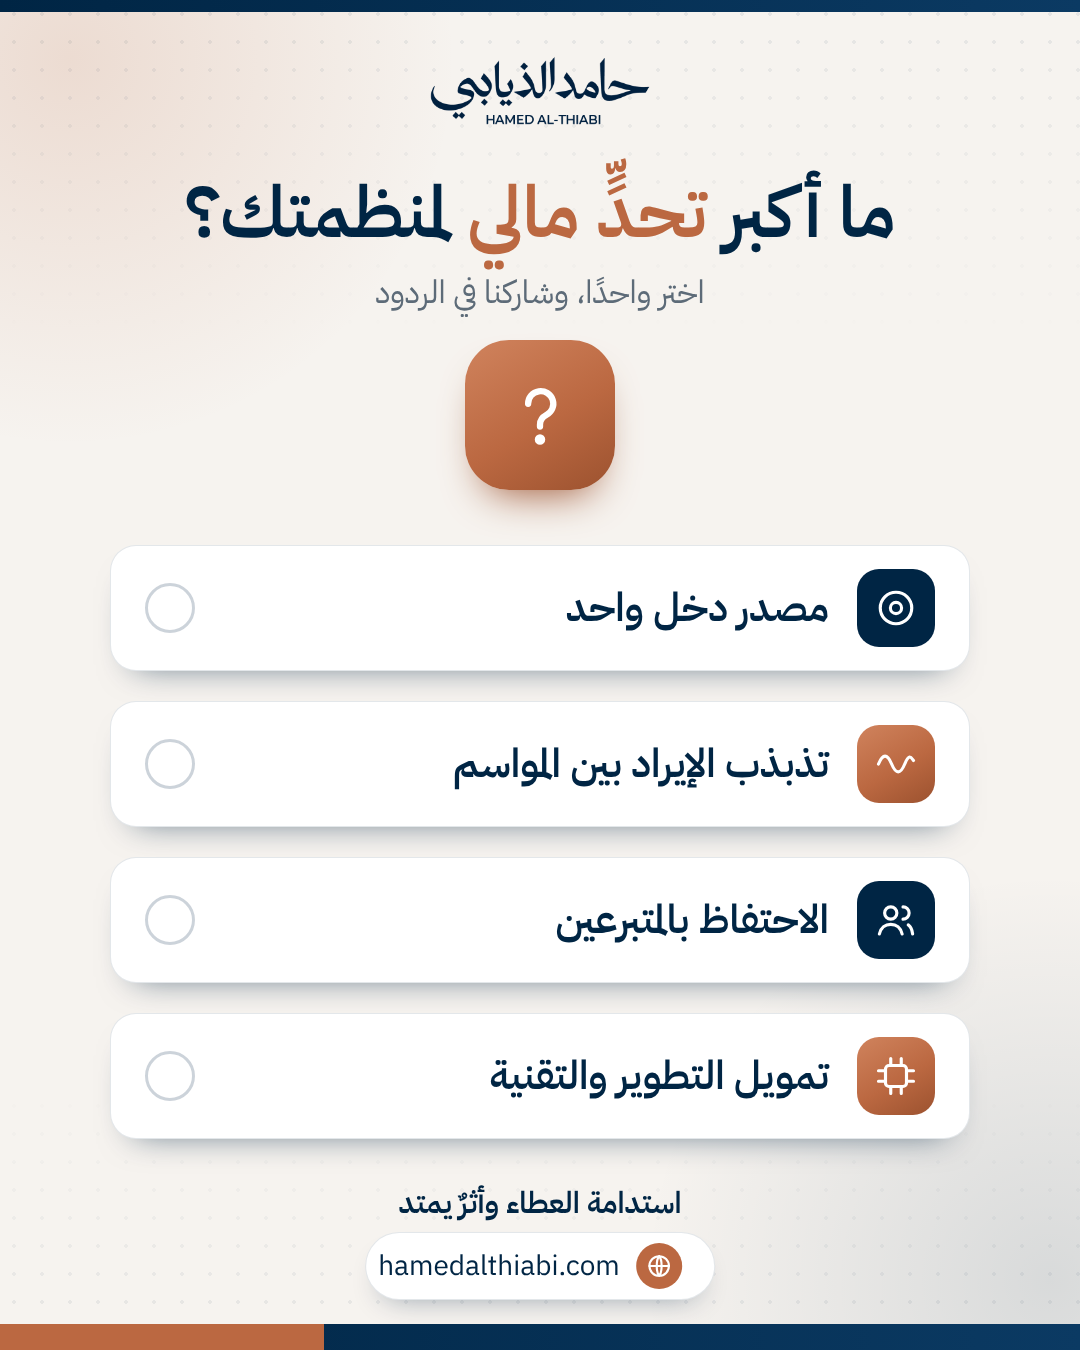
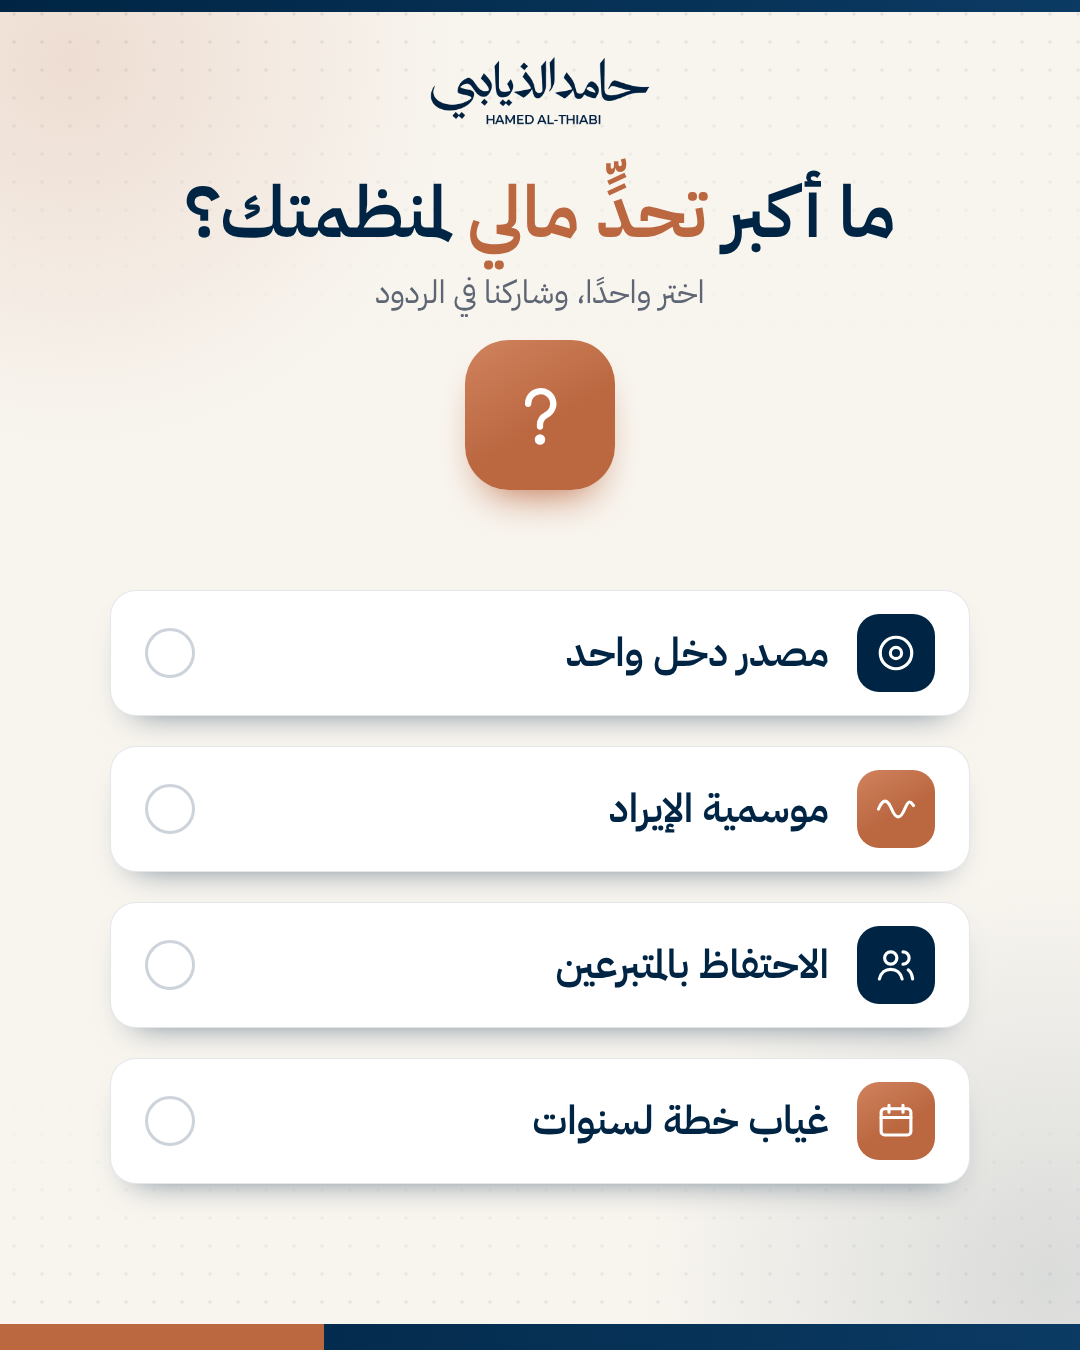
إكس 2026-11-18: نص وتصميم جديدان بطلب تغريد (مسودة)
Claude-Session: https://claude.ai/code/session_01WaAQ5THMPmT87a4kZUky1t

Changed region(s): [[0.0917, 0.4044, 0.9167, 0.9956]]

diff --git a/agent/designs/2026-11-18-challenge-poll.html b/agent/designs/2026-11-18-challenge-poll.html
@@ -2,7 +2,7 @@
 @font-face{font-family:Ar;src:url(../brand/plex-600.ttf);font-weight:600}
 @font-face{font-family:Ar;src:url(../brand/plex-400.ttf);font-weight:400}
 @font-face{font-family:La;src:url(../brand/plex-latin-400.ttf)}
-:root{--n:#002544;--n2:#0b3a63;--c:#BB6841;--c2:#d0835d;--ink:#1c2a38;--mut:#5d6b78;--bg:#f6f3ef}
+:root{--n:#002544;--n2:#0b3a63;--c:#BB6841;--c2:#d0835d;--ink:#1B2433;--mut:#5E6673;--bg:#F8F5EF}
 *{margin:0;box-sizing:border-box}html,body{width:1080px;height:1350px;overflow:hidden}
 body{font-family:Ar,La;background:var(--bg);position:relative;color:var(--ink)}
 .b1{position:absolute;width:780px;height:780px;left:-320px;top:-330px;border-radius:50%;background:radial-gradient(circle,#BB68412b,#BB684100 70%)}
@@ -17,12 +17,12 @@ body{font-family:Ar,La;background:var(--bg);position:relative;color:var(--ink)}
 
 .t1{top:170px;font-size:72px}
 .sub{position:absolute;top:268px;width:100%;text-align:center;font-size:32px;color:var(--mut)}
-.qm{position:absolute;top:340px;left:50%;transform:translateX(-50%);width:150px;height:150px;border-radius:44px;background:linear-gradient(150deg,#d0835d,#BB6841 55%,#9c522f);display:flex;align-items:center;justify-content:center;box-shadow:0 22px 40px -20px #9c522f}
+.qm{position:absolute;top:340px;left:50%;transform:translateX(-50%);width:150px;height:150px;border-radius:44px;background:linear-gradient(150deg,#d0835d,#BB6841 55%,#BB6841);display:flex;align-items:center;justify-content:center;box-shadow:0 22px 40px -20px #BB6841}
 .qm svg{width:84px;height:84px}
-.opts{position:absolute;top:545px;left:110px;right:110px;display:flex;flex-direction:column;gap:30px}
+.opts{position:absolute;top:590px;left:110px;right:110px;display:flex;flex-direction:column;gap:30px}
 .op{height:126px;background:#fff;border-radius:26px;border:1.5px solid #0025441c;box-shadow:0 18px 34px -24px #002544aa;display:flex;align-items:center;padding:0 34px;gap:28px;position:relative;overflow:hidden}
 .ic{flex:none;width:78px;height:78px;border-radius:22px;background:var(--n);display:flex;align-items:center;justify-content:center}
-.op:nth-child(2) .ic,.op:nth-child(4) .ic{background:linear-gradient(150deg,#d0835d,#BB6841 55%,#9c522f)}
+.op:nth-child(2) .ic,.op:nth-child(4) .ic{background:linear-gradient(150deg,#d0835d,#BB6841 55%,#BB6841)}
 .ic svg{width:42px;height:42px}
 .lbl{flex:1;font-size:40px;font-weight:600;color:var(--n);white-space:nowrap}
 .rad{flex:none;width:50px;height:50px;border-radius:50%;border:3px solid #00254433}
@@ -38,8 +38,6 @@ body{font-family:Ar,La;background:var(--bg);position:relative;color:var(--ink)}
 <div class="t1">ما أكبر <em>تحدٍّ مالي</em> لمنظمتك؟</div>
 <div class="sub">اختر واحدًا، وشاركنا في الردود</div>
 <div class="qm"><svg viewBox="0 0 24 24" fill="none" stroke="#fff" stroke-width="1.8" stroke-linecap="round" stroke-linejoin="round" stroke-width="2.2"><path d="M8.6 8.8a3.6 3.6 0 1 1 5.2 3.2c-1.1.6-1.8 1.4-1.8 2.7v.6"/><circle cx="12" cy="19" r=".6" fill="#fff"/></svg></div>
-<div class="opts"><div class="op"><div class="ic"><svg viewBox="0 0 24 24" fill="none" stroke="#fff" stroke-width="1.8" stroke-linecap="round" stroke-linejoin="round"><circle cx="12" cy="12" r="9"/><circle cx="12" cy="12" r="3.2"/></svg></div><div class="lbl">مصدر دخل واحد</div><div class="rad"></div></div><div class="op"><div class="ic"><svg viewBox="0 0 24 24" fill="none" stroke="#fff" stroke-width="1.8" stroke-linecap="round" stroke-linejoin="round"><path d="M2 12c2.5-6 5-6 7.5 0s5 6 7.5 0 3.5-4 5-2"/></svg></div><div class="lbl">تذبذب الإيراد بين المواسم</div><div class="rad"></div></div><div class="op"><div class="ic"><svg viewBox="0 0 24 24" fill="none" stroke="#fff" stroke-width="1.8" stroke-linecap="round" stroke-linejoin="round"><circle cx="9" cy="8" r="3.5"/><path d="M2.5 20c.8-3.6 3.4-5.5 6.5-5.5s5.7 1.9 6.5 5.5"/><path d="M16 4.5a3.5 3.5 0 0 1 0 7M19 14.8c1.4.9 2.2 2.6 2.5 5.2"/></svg></div><div class="lbl">الاحتفاظ بالمتبرعين</div><div class="rad"></div></div><div class="op"><div class="ic"><svg viewBox="0 0 24 24" fill="none" stroke="#fff" stroke-width="1.8" stroke-linecap="round" stroke-linejoin="round"><rect x="6" y="6" width="12" height="12" rx="2"/><path d="M9 2v4M15 2v4M9 18v4M15 18v4M2 9h4M2 15h4M18 9h4M18 15h4"/></svg></div><div class="lbl">تمويل التطوير والتقنية</div><div class="rad"></div></div></div>
-<div class="slog">استدامة العطاء وأثرٌ يمتد</div>
-<div class="pill"><div class="dot"><svg viewBox="0 0 24 24" fill="none" stroke="#fff" stroke-width="2" stroke-linecap="round"><circle cx="12" cy="12" r="9"/><path d="M3 12h18M12 3c3 3.2 3 14.8 0 18M12 3c-3 3.2-3 14.8 0 18"/></svg></div><span>hamedalthiabi.com</span></div>
+<div class="opts"><div class="op"><div class="ic"><svg viewBox="0 0 24 24" fill="none" stroke="#fff" stroke-width="1.8" stroke-linecap="round" stroke-linejoin="round"><circle cx="12" cy="12" r="9"/><circle cx="12" cy="12" r="3.2"/></svg></div><div class="lbl">مصدر دخل واحد</div><div class="rad"></div></div><div class="op"><div class="ic"><svg viewBox="0 0 24 24" fill="none" stroke="#fff" stroke-width="1.8" stroke-linecap="round" stroke-linejoin="round"><path d="M2 12c2.5-6 5-6 7.5 0s5 6 7.5 0 3.5-4 5-2"/></svg></div><div class="lbl">موسمية الإيراد</div><div class="rad"></div></div><div class="op"><div class="ic"><svg viewBox="0 0 24 24" fill="none" stroke="#fff" stroke-width="1.8" stroke-linecap="round" stroke-linejoin="round"><circle cx="9" cy="8" r="3.5"/><path d="M2.5 20c.8-3.6 3.4-5.5 6.5-5.5s5.7 1.9 6.5 5.5"/><path d="M16 4.5a3.5 3.5 0 0 1 0 7M19 14.8c1.4.9 2.2 2.6 2.5 5.2"/></svg></div><div class="lbl">الاحتفاظ بالمتبرعين</div><div class="rad"></div></div><div class="op"><div class="ic"><svg viewBox="0 0 24 24" fill="none" stroke="#fff" stroke-width="1.8" stroke-linecap="round" stroke-linejoin="round"><rect x="3.5" y="5" width="17" height="15" rx="2"/><path d="M3.5 10h17M8 3v4M16 3v4"/></svg></div><div class="lbl">غياب خطة لسنوات</div><div class="rad"></div></div></div>
 <div class="bot"><i></i></div>
 </body></html>
